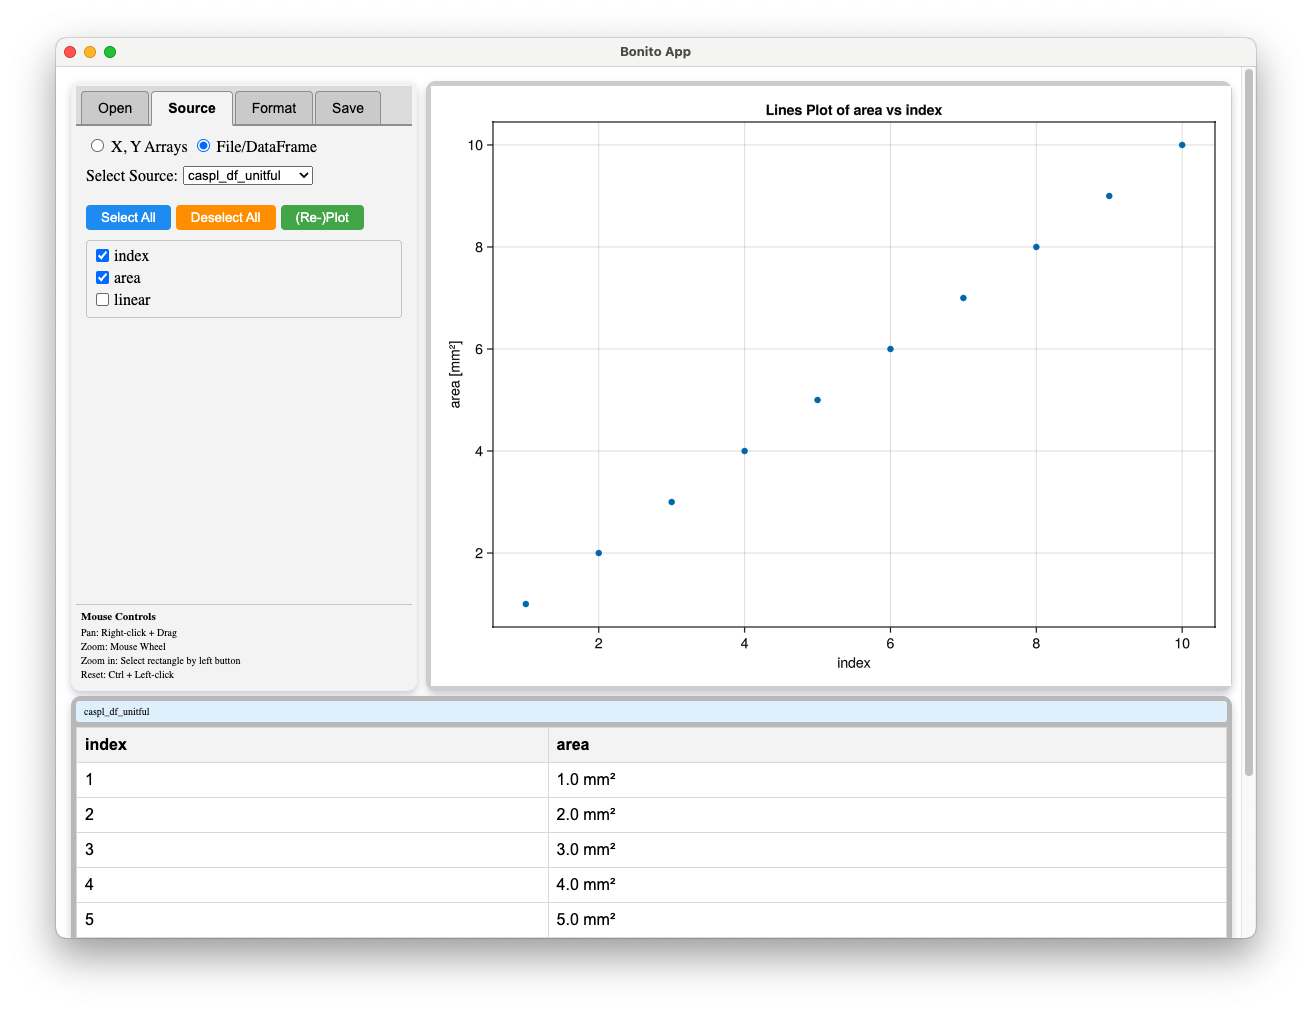
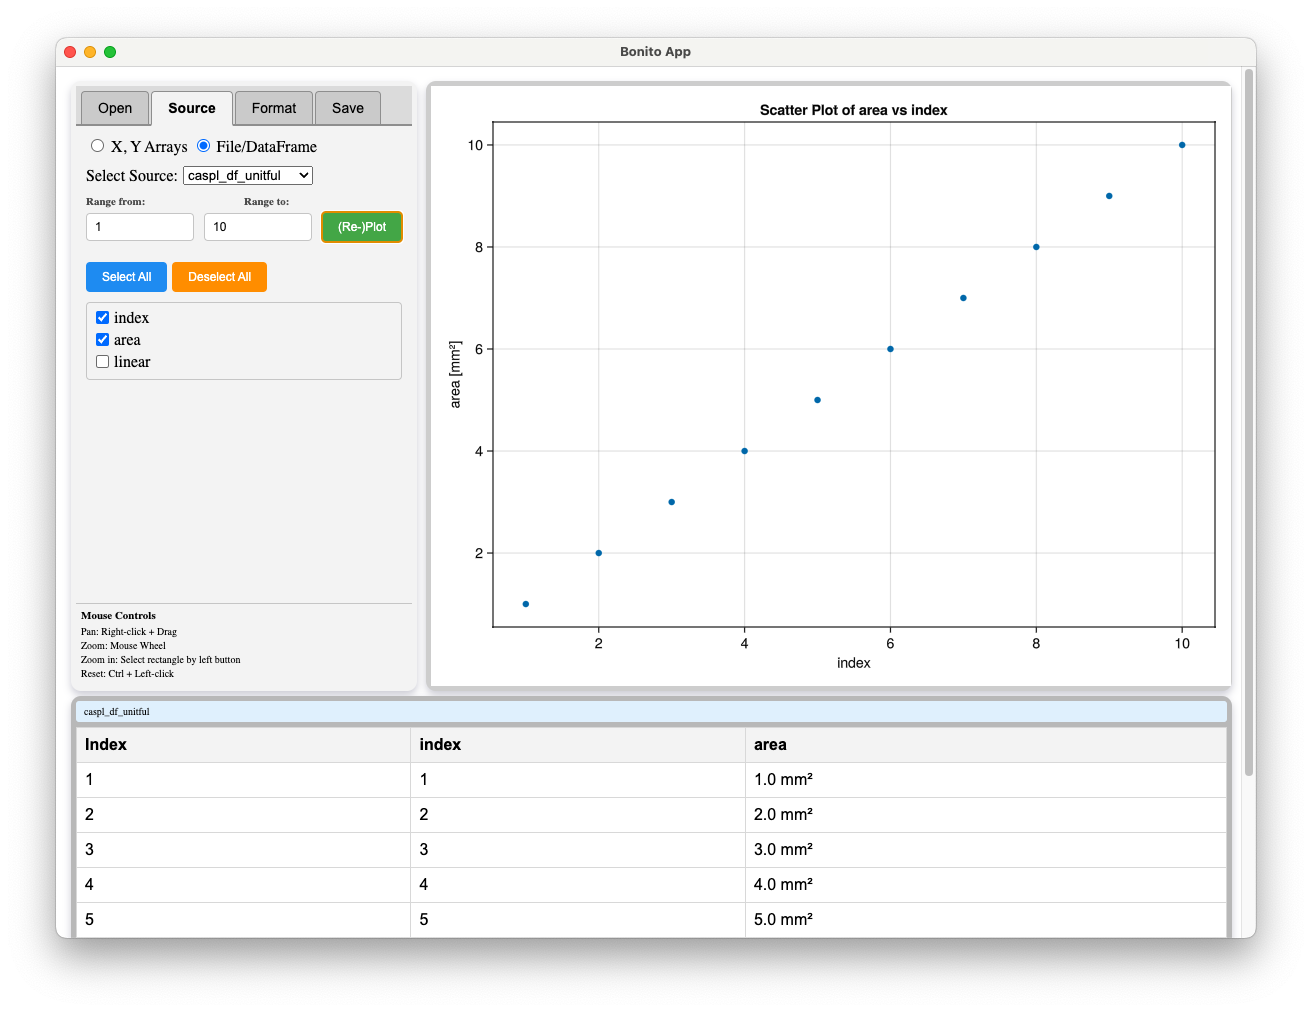
Implement Makie themes, groups by color/geometry. ↑v0.5.0

diff --git a/AGENTS.md b/AGENTS.md
@@ -192,10 +192,12 @@ The Open tab provides configurable file reading options before/after loading:
 Formatting changes (Plot Type, Legend, Labels) are handled differently to preserve user customizations and optimize performance. Both X,Y and DataFrame modes have separate format callback implementations that follow identical patterns.
 
 **A. Format Callback Logic:**
-- **Triggered by**: `selected_plottype`, `show_legend`, `legend_title_text`, axis limit observables.
+- **Triggered by**: `selected_plottype`, `selected_theme`, `selected_group_by`, `show_legend`, `legend_title_text`, axis limit observables.
 - **Implementations**:
     - X,Y Mode: `setup_format_change_callbacks` (triggers `do_replot`)
     - DataFrame Mode: Format callbacks within `setup_dataframe_callbacks` (triggers `update_dataframe_plot` → `do_replot`)
+    - Theme: `setup_theme_callback` (applies theme globally, triggers replot)
+    - Group By: `setup_group_by_callback` (triggers replot with new group mapping)
     - Axis Limits: `setup_axis_limits_callbacks` (triggers immediate replot with current limits)
 - **Shared Behavior**:
     - **All format changes trigger full replot** using the unified `do_replot` function.
@@ -210,7 +212,7 @@ A `DefaultDict{Symbol, Bool}` tracks which format options are still at their def
 
 **Reset behavior is defined in `constants.jl` via `RESET_FORMAT_OPTION` Dict:**
 - `"never"` → Options that persist across all changes:
-    - `:plottype`
+    - `:plottype`, `:theme`
 - `"source"` → Options reset when data source changes:
     - `:title`, `:xlabel`, `:ylabel`, `:show_legend`, `:legend_title`
     - `:x_min`, `:x_max`, `:y_min`, `:y_max`, `:xreversed`, `:yreversed`
@@ -242,7 +244,7 @@ All plotting uses **AlgebraOfGraphics exclusively** (no direct Makie `Figure`/`A
 **Key Functions:**
 - `do_replot(state, outputs; data, plot_format, is_new_data)`: **Unified entry point** for all plotting
   - `data`: Either `(; x_name, y_name)` for arrays or `(; df, x_name, y_name)` for DataFrames
-  - `plot_format`: `(; plottype, show_legend, legend_title)`
+  - `plot_format`: `(; plottype, show_legend, legend_title, group_by)` + axis limits
   - `is_new_data`: If true, initializes text fields from plot defaults
 - `check_data_create_plot(x_name, y_name; plot_format)`: Fetch from Main, delegate to create_plot
 - `create_plot(x_data::AbstractVector, y_data, ...)`: Arrays → DataFrame → AoG pipeline
@@ -253,7 +255,13 @@ All plotting uses **AlgebraOfGraphics exclusively** (no direct Makie `Figure`/`A
 
 **AlgebraOfGraphics Pattern:**
 ```julia
-plt = data(df) * mapping(x_col => x_name, y_col => y_name; color=group_col => legend_title) * visual(plottype)
+# Group differentiation based on group_by setting:
+group_mapping = if group_by == "Geometry" && plottype != BarPlot
+    plottype == Lines ? (; linestyle = group_col => legend_title) : (; marker = group_col => legend_title)
+else
+    (; color = group_col => legend_title)
+end
+plt = data(df) * mapping(x_col => x_name, y_col => y_name; group_mapping...) * visual(plottype)
 fg = draw(plt; figure=(; size=(800, 600)), legend=(show=show_legend,), axis=(; title))
 fig = fg.figure
 axis = fg.grid[1, 1].axis  # Extract Axis from FigureGrid
@@ -275,10 +283,11 @@ global cp_figure_ax = axis  # Axis object for fine-tuning
 
 - Only support for the most common 2‑D plot types (`Scatter`, `Lines`, `BarPlot`) is planned
 
-#### Planned Enhancements (as of v0.4.0)
+#### Planned Enhancements (as of v0.5.0)
 
 - ~~Axis limits~~ ✓ Implemented (configurable min/max, reversal, pan/zoom sync)
-- Additional formatting options (e.g., themes)
+- ~~Themes~~ ✓ Implemented (Makie default, AoG, theme_black/dark/ggplot2/light/minimal)
+- ~~Group differentiation~~ ✓ Implemented (Color or Geometry; Geometry disabled for BarPlot)
 - Support for multiple independent data sources
 - Automatic Julia code generation from GUI actions
 - Optional regression‑fit overlays  

diff --git a/README.md b/README.md
@@ -98,8 +98,9 @@ Variables (`Vector`, `Matrix`, `DataFrame`) in `Main` are automatically detected
 In the **Source** tab:
 
 -  For **X, Y Arrays** source, first, select an **X** variable. Only 1D arrays (vectors) of numeric or `Unitful` values are shown.
-    - The **Y** dropdown then shows variables whose first dimension matches X's length. As soon as **Y** is selected, the plot is created automatically.
-- For **File/DataFrame**, select one from the dropdown, then pick your columns. The first selected column becomes the X-values. Click **(Re-)Plot** to visualize.
+    - The **Y** dropdown then shows variables whose first dimension matches X's length. Click **(Re-)Plot** to create plot.
+- For **File/DataFrame**, select one from the dropdown, then pick your columns. The first selected column becomes the X-values. Click **(Re-)Plot**.
+- You can select data range.
 
 The selected data is also displayed in the table view.
 
@@ -121,11 +122,11 @@ In the **Open** tab:
 
 ### Plot Formatting Options
 
-Currently, only a few basic options are available. Substantial expansion of these capabilities is planned for the future.
+WIP, see **Format** tab.
 
 ### Accessing Created Plot
 
-The plot (the `Makie.Figure` object, to be exact) is exported as `cp_figure`, whereas its `Axis` object exported as `cp_figure_ax`. Both objects will be accessible in REPL as soon as the plot is displayed. You a free to modify them in any way possible in `Makie`:
+The plot (the `Makie.Figure` object, to be exact) is exported as `cp_figure`, whereas its `Axis` object exported as `cp_figure_ax`. Both objects will be accessible in REPL as soon as the plot is displayed. You are free to modify them in any way possible in `Makie`:
 
 ```
 # the change will be immediately reflected in the currently displayed plot
@@ -138,10 +139,11 @@ In short, it is WIP, however, the main goals are already implemented and the pac
 
 - [✅] A GUI with panes for user interactions, plot display, and source data display.
 - [✅] Data sources: variables defined in the Main module (vectors, matrices, dataframes).
+    - [✅] Range selection, DataFrame columns selection.
 - [✅] Data sources: CSV and XLSX files.
     - [✅] Support for CSV/XLSX file reading options (kwargs).
 - [✅] Plotting: Lines and Scatter plots.
-    - [🚧] More plot formatting options.
+    - [🚧] More plot formatting options being added.
 - [✅] Saving plot to a file.
 - [✅] Exporting the Figure object.
 - [✅] Precompile to reduce TTFP.

diff --git a/AGENTS_more_info/Mermaid/callback_execution_sequence.md b/AGENTS_more_info/Mermaid/callback_execution_sequence.md
@@ -81,6 +81,34 @@ sequenceDiagram
     end
     deactivate FormatCB
     
+    %% Theme Change
+    Note over User,Table: User Changes Theme
+    User->>UI: Select theme "theme_dark"
+    UI->>Obs: selected_theme[] = "theme_dark"
+    
+    Obs->>FormatCB: Triggered (selected_theme changed)
+    activate FormatCB
+    FormatCB->>FormatCB: apply_theme!("theme_dark")
+    Note over FormatCB: set_theme!(theme_dark())
+    FormatCB->>Obs: format_is_default[:theme] = false
+    FormatCB->>Plot: do_replot with current data + group_by
+    Plot-->>FormatCB: fig_result (with new theme)
+    FormatCB->>Obs: plot[] = new figure
+    deactivate FormatCB
+    
+    %% Group By Change
+    Note over User,Table: User Changes Group Differentiation
+    User->>UI: Select "Geometry" in group_by dropdown
+    UI->>Obs: selected_group_by[] = "Geometry"
+    
+    Obs->>FormatCB: Triggered (selected_group_by changed)
+    activate FormatCB
+    Note over FormatCB: Lines: linestyle mapping<br/>Scatter: marker mapping<br/>BarPlot: falls back to color
+    FormatCB->>Plot: do_replot with group_by="Geometry"
+    Plot-->>FormatCB: fig_result (groups by line style/marker)
+    FormatCB->>Obs: plot[] = new figure
+    deactivate FormatCB
+    
     %% DataFrame Mode
     Note over User,Table: DataFrame Mode: User Selects Columns
     User->>UI: Select DataFrame "df1"

diff --git a/AGENTS_more_info/Mermaid/high-level_user_flow.md b/AGENTS_more_info/Mermaid/high-level_user_flow.md
@@ -69,12 +69,16 @@ flowchart TD
     DisplayDFPlot --> FormatControls
     FormatControls --> UserEdit{User Edits Format?}
     UserEdit -->|Plot Type| MarkNonDefault[Mark format_is_default = false]
+    UserEdit -->|Theme| ApplyTheme[apply_theme! + Mark non-default]
+    UserEdit -->|Group By| GroupByChange[Update group mapping]
     UserEdit -->|Legend Toggle| MarkNonDefault
     UserEdit -->|Legend Title| MarkNonDefault
     UserEdit -->|Axis Limits| AxisLimitEdit[Update Axis Limits]
     UserEdit -->|Labels| UpdateLabels[Update Axis Labels Directly]
     
-    AxisLimitEdit --> DoReplot[do_replot with new format]
+    ApplyTheme --> DoReplot[do_replot with new format]
+    GroupByChange --> DoReplot
+    AxisLimitEdit --> DoReplot
     MarkNonDefault --> DoReplot
     DoReplot --> ApplyCustom[apply_custom_formatting!]
     Note right of ApplyCustom: Re-apply non-default labels

diff --git a/AGENTS_more_info/specific_issues/reactive_state_architecture.md b/AGENTS_more_info/specific_issues/reactive_state_architecture.md
@@ -41,6 +41,8 @@ state = (;
     plotting = (;
         format = (;
             selected_plottype::Observable{String},
+            selected_theme::Observable{String},       # Makie theme (Makie default, AoG, theme_*)
+            selected_group_by::Observable{String},    # Group differentiation: "Color" or "Geometry"
             show_legend::Observable{Bool},
             # Axis limits (nothing = auto)
             x_min::Observable{Union{Nothing, Float64}},

diff --git a/AGENTS_more_info/Mermaid/state_transition_map.md b/AGENTS_more_info/Mermaid/state_transition_map.md
@@ -23,7 +23,7 @@ stateDiagram-v2
     
     WarningModal --> PlotDisplayed: User Dismisses
     
-    PlotDisplayed --> Replotting: Format Changed\n(plottype, legend,\nlabels)
+    PlotDisplayed --> Replotting: Format Changed\n(plottype, theme,\ngroup_by, legend,\nlabels)
     
     Replotting --> PlotDisplayed: Format Applied\n(labels preserved)
     
